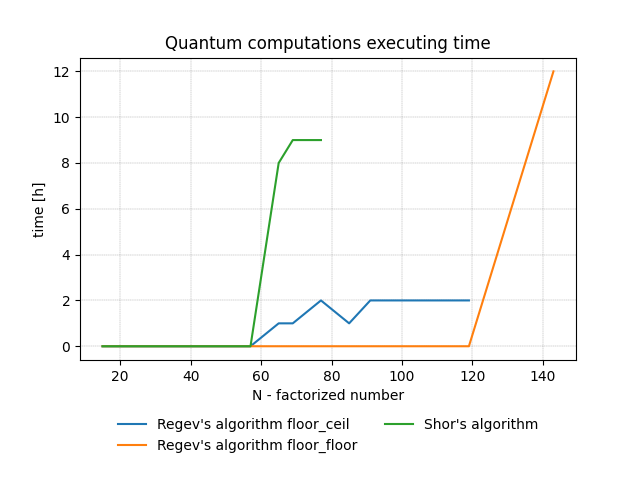
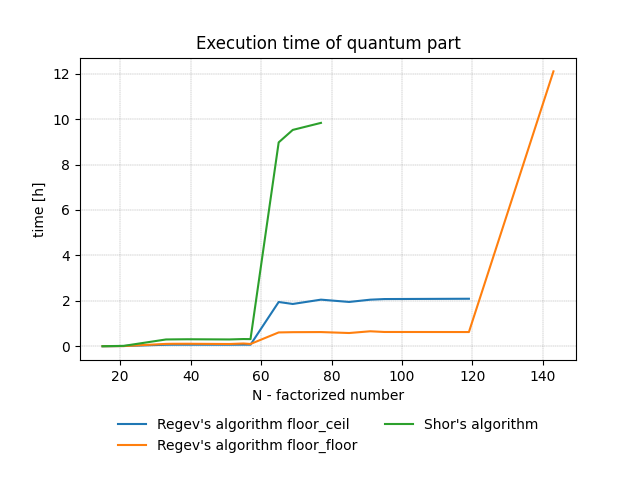
Adding plots

diff --git a/utils/plots/time_divided_by_effectiveness.py b/utils/plots/time_divided_by_effectiveness.py
@@ -6,15 +6,20 @@ from extract_data_from_classical_part import extract_data
 N = [15, 21, 33, 35, 39, 51, 55, 57]
 
 regev_ceil_ceil_time_ms = [8318, 1600148, 10606411, 11018810, 11147302, 10825613, 11377694, 11185650]
+# regev_ceil_ceil_h = [i // 3600000 for i in regev_ceil_ceil_time_ms]
 regev_ceil_ceil_s = [i / 1000 for i in regev_ceil_ceil_time_ms]
 regev_ceil_floor_time_ms = [15470, 286398, 15425238, 15425238, 11207907, 10886042, 15971179, 11183239]
+# regev_ceil_floor_h = [i // 3600000 for i in regev_ceil_floor_time_ms]
 regev_ceil_floor_s = [i / 1000 for i in regev_ceil_floor_time_ms]
 regev_floor_ceil_time_ms = [8542, 47161, 245911, 256074, 257180, 251896, 262070, 257281]
+# regev_floor_ceil_h = [i // 3600000 for i in regev_floor_ceil_time_ms]
 regev_floor_ceil_s = [i / 1000 for i in regev_floor_ceil_time_ms]
 regev_floor_floor_time_ms = [14698, 34719, 383576, 399456, 405097, 364752, 446004, 369373]
+# regev_floor_floor_h = [i // 3600000 for i in regev_floor_floor_time_ms]
 regev_floor_floor_s = [i / 1000 for i in regev_floor_floor_time_ms]
 shor_time_ms_all = [17820, 67915, 1083631, 1097304, 1118240, 1087438, 1151647, 1139126]
 shor_s = [i / 1000 for i in shor_time_ms_all]
+
 
 factorize_effectiveness_ceil_ceil = extract_data("ceil_ceil", 1, len(N))[2]
 # factorize_effectiveness_ceil_ceil = [i / 100 for i in factorize_effectiveness_ceil_ceil]
@@ -25,16 +30,19 @@ factorize_effectiveness_floor_ceil = extract_data("floor_ceil", 1, len(N))[2]
 factorize_effectiveness_floor_floor = extract_data("floor_floor", 1, len(N))[2]
 # factorize_effectiveness_floor_floor = [i / 100 for i in factorize_effectiveness_floor_floor]
 shor_effectiveness = [1/2, 1/2, 18/20, 3/4, 18/20, 14/16, 33/38, 21/24]
-shor_effectiveness = [100 * i for i in shor_effectiveness]
+shor_effectiveness = [i * 100 for i in shor_effectiveness]
 
-m_regev_ceil_ceil = [t * e for t, e in zip(regev_ceil_ceil_s, factorize_effectiveness_ceil_ceil)]
-m_regev_ceil_floor = [t * e for t, e in zip(regev_ceil_floor_s, factorize_effectiveness_ceil_floor)]
-m_regev_floor_ceil = [t * e for t, e in zip(regev_floor_ceil_s, factorize_effectiveness_floor_ceil)]
-m_regev_floor_floor = [t * e for t, e in zip(regev_floor_floor_s, factorize_effectiveness_floor_floor)]
-m_shor = [t * e for t, e in zip(shor_s, shor_effectiveness)]
-
+m_regev_ceil_ceil = [t / e for t, e in zip(regev_ceil_ceil_s, factorize_effectiveness_ceil_ceil)]
+m_regev_ceil_floor = [t / e for t, e in zip(regev_ceil_floor_s, factorize_effectiveness_ceil_floor)]
+m_regev_floor_ceil = [t / e for t, e in zip(regev_floor_ceil_s, factorize_effectiveness_floor_ceil)]
+m_regev_floor_floor = [t / e for t, e in zip(regev_floor_floor_s, factorize_effectiveness_floor_floor)]
+m_shor = [t / e for t, e in zip(shor_s, shor_effectiveness)]
+print(m_regev_ceil_ceil)
+print(m_regev_ceil_floor)
+print(m_regev_floor_ceil, regev_floor_ceil_s, factorize_effectiveness_floor_ceil)
+print(m_regev_floor_floor, regev_floor_floor_s, factorize_effectiveness_floor_floor)
 plt.xlabel("N - factorized number")
-plt.ylabel("effectiveness * quantum time execution [% * s]")
+plt.ylabel("effectiveness / quantum time execution [% / s]")
 plt.plot(N[:len(N)], m_regev_ceil_ceil, label="Regev's algorithm ceil_ceil")
 plt.plot(N[:len(N)], m_regev_floor_ceil, label="Regev's algorithm ceil_floor")
 plt.plot(N[:len(N)], m_regev_ceil_floor, label="Regev's algorithm floor_ceil")
@@ -46,4 +54,4 @@ plt.title("Comparison of effectiveness-time metric")
 plt.subplots_adjust(bottom=0.35)
 plt.legend(loc='upper center', bbox_to_anchor=(0.5, -0.15), ncol=1, frameon=False)
 plt.grid(color='gray', linestyle='--', linewidth=0.25)
-plt.savefig("./../../images/plots/time_multiplied_by_effectiveness.png")
+plt.savefig("./../../images/plots/time_divided_by_effectiveness.png")

diff --git a/utils/plots/regev_floor_quantum_time.py b/utils/plots/regev_floor_quantum_time.py
@@ -6,21 +6,21 @@ import numpy as np
 N = [15, 21, 33, 35, 39, 51, 55, 57, 65, 69, 77, 85, 91, 95, 119, 143]
 regev_floor_ceil_time_ms = [8542, 47161, 245911, 256074, 257180, 251896, 262070, 257281, 7022759, 6707780, 7393365,
                             7029123, 7387789, 7487608, 7536163]
-regev_floor_ceil_h = [i // 3600000 for i in regev_floor_ceil_time_ms]
+regev_floor_ceil_h = [i / 3600000 for i in regev_floor_ceil_time_ms]
 regev_floor_floor_time_ms = [14698, 34719, 383576, 399456, 405097, 364752, 446004, 369373, 2199122, 2239205, 2256183,
                              2106013, 2381526, 2270617, 2260646, 43569800]
-regev_floor_floor_h = [i // 3600000 for i in regev_floor_floor_time_ms]
+regev_floor_floor_h = [i / 3600000 for i in regev_floor_floor_time_ms]
 
 # odejmowanie części klasycznej ze względu na zaokrąglenie do ms nie ma sensu
 shor_time_ms_all = [17820, 67915, 1083631, 1097304, 1118240, 1087438, 1151647, 1139126, 32314573, 34290676, 35403319]
-shor_h = [i // 3600000 for i in shor_time_ms_all]
+shor_h = [i / 3600000 for i in shor_time_ms_all]
 
 plt.xlabel("N - factorized number")
 plt.ylabel("time [h]")
 plt.plot(N[:len(regev_floor_ceil_h)], regev_floor_ceil_h, label="Regev's algorithm floor_ceil")
 plt.plot(N[:len(regev_floor_floor_h)], regev_floor_floor_h, label="Regev's algorithm floor_floor")
 plt.plot(N[:len(shor_h)], shor_h, label="Shor's algorithm")
-plt.title("Quantum computations executing time")
+plt.title("Execution time of quantum part")
 # plt.legend(bbox_to_anchor=(0, 0.92, 1, 0.2), loc="lower left", mode="expand", borderaxespad=0, ncol=3)
 plt.subplots_adjust(bottom=0.25)
 plt.legend(loc='upper center', bbox_to_anchor=(0.5, -0.15), ncol=2, frameon=False)

diff --git a/utils/plots/regev_quantum_part_all.py b/utils/plots/regev_quantum_part_all.py
@@ -5,19 +5,19 @@ import numpy as np
 
 N = [15, 21, 33, 35, 39, 51, 55, 57, 65, 69, 77, 85, 91, 95, 119, 143]
 regev_ceil_ceil_time_ms = [8318, 1600148, 10606411, 11018810, 11147302, 10825613, 11377694, 11185650]
-regev_ceil_ceil_h = [i // 3600000 for i in regev_ceil_ceil_time_ms]
+regev_ceil_ceil_h = [i / 3600000 for i in regev_ceil_ceil_time_ms]
 regev_ceil_floor_time_ms = [15470, 286398, 15425238, 15425238, 11207907, 10886042, 15971179, 11183239]
-regev_ceil_floor_h = [i // 3600000 for i in regev_ceil_floor_time_ms]
+regev_ceil_floor_h = [i / 3600000 for i in regev_ceil_floor_time_ms]
 regev_floor_ceil_time_ms = [8542, 47161, 245911, 256074, 257180, 251896, 262070, 257281, 7022759, 6707780, 7393365,
                             7029123, 7387789, 7487608, 7536163]
-regev_floor_ceil_h = [i // 3600000 for i in regev_floor_ceil_time_ms]
+regev_floor_ceil_h = [i / 3600000 for i in regev_floor_ceil_time_ms]
 regev_floor_floor_time_ms = [14698, 34719, 383576, 399456, 405097, 364752, 446004, 369373, 2199122, 2239205, 2256183,
                              2106013, 2381526, 2270617, 2260646, 43569800]
-regev_floor_floor_h = [i // 3600000 for i in regev_floor_floor_time_ms]
+regev_floor_floor_h = [i / 3600000 for i in regev_floor_floor_time_ms]
 
 # odejmowanie części klasycznej ze względu na zaokrąglenie do ms nie ma sensu
 shor_time_ms_all = [17820, 67915, 1083631, 1097304, 1118240, 1087438, 1151647, 1139126, 32314573, 34290676, 35403319]
-shor_h = [i // 3600000 for i in shor_time_ms_all]
+shor_h = [i / 3600000 for i in shor_time_ms_all]
 
 plt.xlabel("N - factorized number")
 plt.ylabel("time [h]")

diff --git a/utils/plots/regev_ceil_quantum_time.py b/utils/plots/regev_ceil_quantum_time.py
@@ -5,19 +5,19 @@ import numpy as np
 
 N = [15, 21, 33, 35, 39, 51, 55, 57]
 regev_ceil_ceil_time_ms = [8318, 1600148, 10606411, 11018810, 11147302, 10825613, 11377694, 11185650]
-regev_ceil_ceil_h = [i // 3600000 for i in regev_ceil_ceil_time_ms]
+regev_ceil_ceil_h = [i / 3600000 for i in regev_ceil_ceil_time_ms]
 regev_ceil_floor_time_ms = [15470, 286398, 15425238, 15425238, 11207907, 10886042, 15971179, 11183239]
-regev_ceil_floor_h = [i // 3600000 for i in regev_ceil_floor_time_ms]
+regev_ceil_floor_h = [i / 3600000 for i in regev_ceil_floor_time_ms]
 # odejmowanie części klasycznej ze względu na zaokrąglenie do ms nie ma sensu
 shor_time_ms_all = [17820, 67915, 1083631, 1097304, 1118240, 1087438, 1151647, 1139126]
-shor_h = [i // 3600000 for i in shor_time_ms_all]
+shor_h = [i / 3600000 for i in shor_time_ms_all]
 
 plt.xlabel("N - factorized number")
 plt.ylabel("time [h]")
 plt.plot(N, regev_ceil_ceil_h, label="Regev's algorithm ceil_ceil")
 plt.plot(N, regev_ceil_floor_h, label="Regev's algorithm ceil_floor")
 plt.plot(N, shor_h, label="Shor's algorithm")
-plt.title("Quantum computations executing time")
+plt.title("Execution time of quantum part")
 # plt.legend(bbox_to_anchor=(0, 0.92, 1, 0.2), loc="lower left", mode="expand", borderaxespad=0, ncol=3)
 plt.subplots_adjust(bottom=0.25)
 plt.legend(loc='upper center', bbox_to_anchor=(0.5, -0.15), ncol=2, frameon=False)

diff --git a/utils/plots/classical_part_time.py b/utils/plots/classical_part_time.py
@@ -4,7 +4,7 @@ sys.path.insert(1, './extract_data')
 from extract_data_from_classical_part import extract_data
 
 
-N = [15, 21, 33, 35, 39, 51, 55, 57]
+N = [15, 21, 33, 35, 39, 51, 55, 57, 65, 69, 77, 85, 91, 95, 119, 143]
 time_ceil_ceil = extract_data("ceil_ceil", 1, len(N))[-1]
 time_ceil_floor = extract_data("ceil_floor", 1, len(N))[-1]
 time_floor_ceil = extract_data("floor_ceil", 1, len(N))[-1]
@@ -27,9 +27,9 @@ plt.plot(N[:len(time_floor_ceil)], time_floor_ceil, label="Regev's algorithm flo
 plt.plot(N[:len(time_floor_floor)], time_floor_floor, label="Regev's algorithm floor_floor")
 plt.plot(N[:len(time_shor)], time_shor, label="Shor's algorithm")
 
-plt.title("Time execution of classical part")
+plt.title("Execution time of classical part")
 # plt.legend(bbox_to_anchor=(0, 0.92, 1, 0.2), loc="lower left", mode="expand", borderaxespad=0, ncol=3)
 plt.subplots_adjust(bottom=0.35)
 plt.legend(loc='upper center', bbox_to_anchor=(0.5, -0.15), ncol=1, frameon=False)
 plt.grid(color='gray', linestyle='--', linewidth=0.25)
-plt.savefig("./../../images/plots/classical_part_time.png")
+plt.savefig("./../../images/plots/classical_part_time_whole_range.png")
